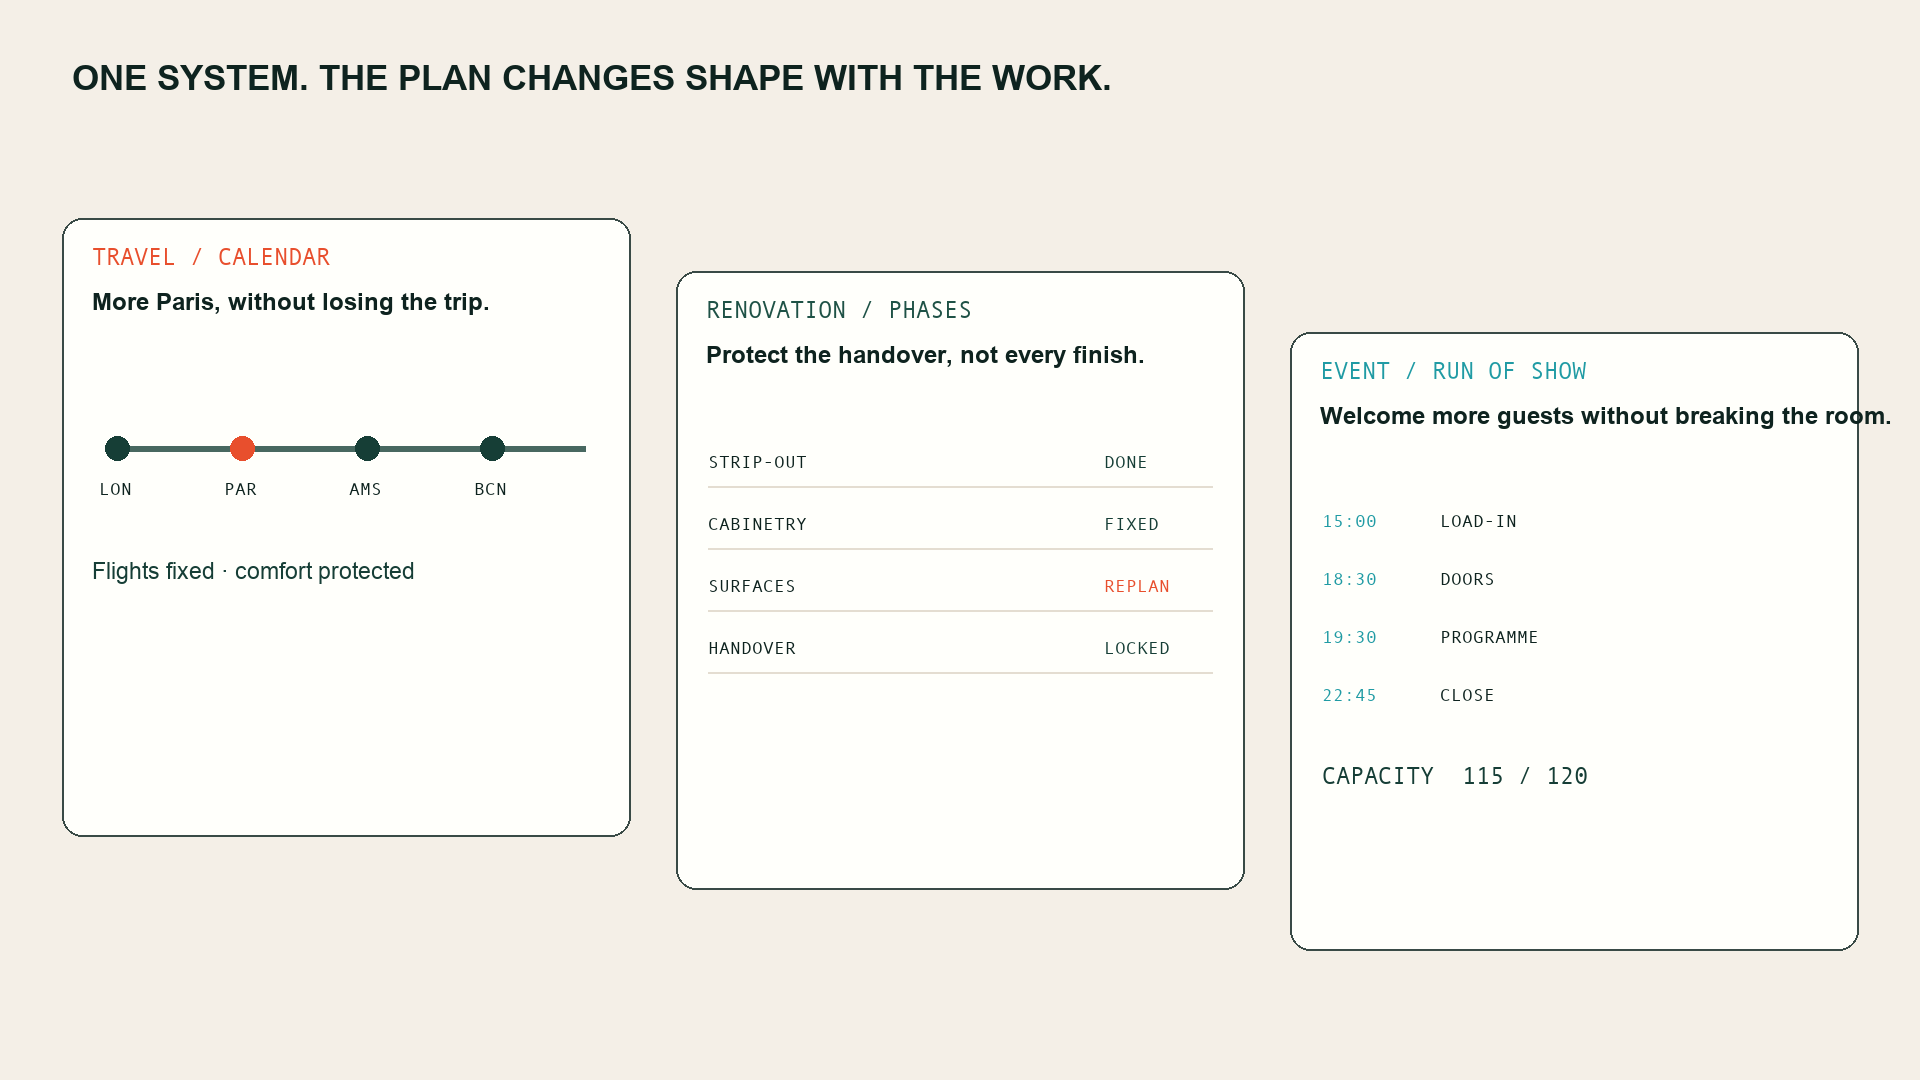
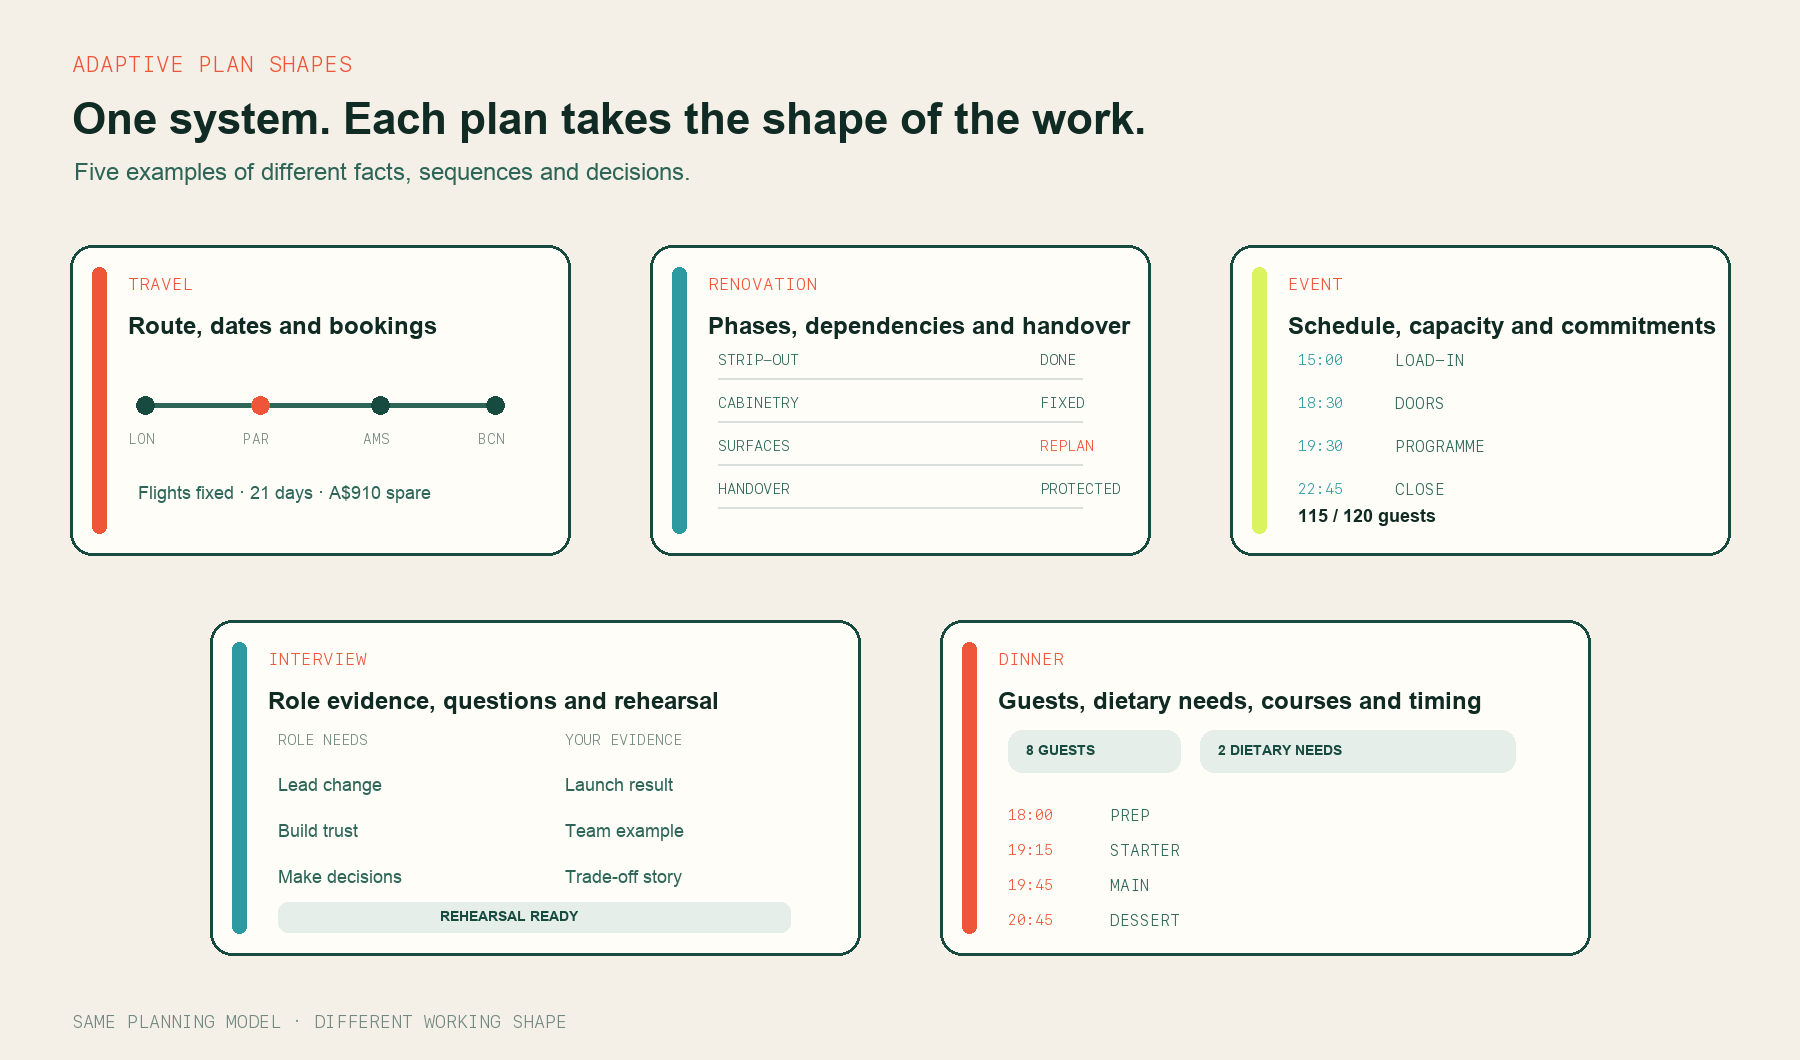
docs: prove Finite adapts to the work

diff --git a/docs/diagrams/render_diagrams.py b/docs/diagrams/render_diagrams.py
@@ -323,10 +323,73 @@ def restaurant_model() -> None:
     image.save(OUT / "diagram-restaurant-model.png", optimize=True)
 
 
+def adaptive_plan_shapes() -> None:
+    image = Image.new("RGB", (1800, 1060), PAPER)
+    draw = ImageDraw.Draw(image)
+    draw.text((72, 50), "ADAPTIVE PLAN SHAPES", font=font(22, mono=True), fill=CORAL)
+    draw.text((72, 94), "One system. Each plan takes the shape of the work.", font=font(44, bold=True), fill=INK)
+    draw.text((74, 158), "Five examples of different facts, sequences and decisions.", font=font(24), fill=GREEN_2)
+
+    def card(x0: int, y0: int, x1: int, y1: int, label: str, title: str, accent: str) -> None:
+        draw.rounded_rectangle((x0, y0, x1, y1), radius=22, fill=WHITE, outline=GREEN, width=3)
+        draw.rounded_rectangle((x0 + 22, y0 + 22, x0 + 36, y1 - 22), radius=7, fill=accent)
+        draw.text((x0 + 58, y0 + 28), label, font=font(17, mono=True), fill=CORAL)
+        draw.text((x0 + 58, y0 + 67), title, font=font(24, bold=True), fill=INK)
+
+    card(70, 245, 570, 555, "TRAVEL", "Route, dates and bookings", CORAL)
+    draw.line((138, 405, 500, 405), fill=GREEN_2, width=5)
+    for x, place, colour in [(145, "LON", GREEN), (260, "PAR", CORAL), (380, "AMS", GREEN), (495, "BCN", GREEN)]:
+        draw.ellipse((x - 9, 396, x + 9, 414), fill=colour)
+        draw.text((x - 17, 430), place, font=font(14, mono=True), fill=MUTED)
+    draw.text((138, 482), "Flights fixed · 21 days · A$910 spare", font=font(18), fill=GREEN_2)
+
+    card(650, 245, 1150, 555, "RENOVATION", "Phases, dependencies and handover", TEAL)
+    phase_rows = [("STRIP-OUT", "DONE", GREEN_2), ("CABINETRY", "FIXED", GREEN_2), ("SURFACES", "REPLAN", CORAL), ("HANDOVER", "PROTECTED", GREEN_2)]
+    for index, (phase, state, colour) in enumerate(phase_rows):
+        y = 350 + index * 43
+        draw.text((718, y), phase, font=font(15, mono=True), fill=GREEN_2)
+        draw.text((1040, y), state, font=font(15, mono=True), fill=colour)
+        draw.line((718, y + 28, 1082, y + 28), fill="#d8dfda", width=2)
+
+    card(1230, 245, 1730, 555, "EVENT", "Schedule, capacity and commitments", MINT)
+    event_rows = [("15:00", "LOAD-IN"), ("18:30", "DOORS"), ("19:30", "PROGRAMME"), ("22:45", "CLOSE")]
+    for index, (time, activity) in enumerate(event_rows):
+        y = 350 + index * 43
+        draw.text((1298, y), time, font=font(15, mono=True), fill=TEAL)
+        draw.text((1395, y), activity, font=font(16, mono=True), fill=GREEN_2)
+    draw.text((1298, 505), "115 / 120 guests", font=font(18, bold=True), fill=INK)
+
+    card(210, 620, 860, 955, "INTERVIEW", "Role evidence, questions and rehearsal", TEAL)
+    draw.text((278, 730), "ROLE NEEDS", font=font(15, mono=True), fill=MUTED)
+    draw.text((565, 730), "YOUR EVIDENCE", font=font(15, mono=True), fill=MUTED)
+    interview_rows = [("Lead change", "Launch result"), ("Build trust", "Team example"), ("Make decisions", "Trade-off story")]
+    for index, (need, evidence) in enumerate(interview_rows):
+        y = 774 + index * 46
+        draw.text((278, y), need, font=font(18), fill=GREEN_2)
+        draw.text((565, y), evidence, font=font(18), fill=GREEN_2)
+    draw.rounded_rectangle((278, 902, 790, 932), radius=10, fill="#e6eee9")
+    draw.text((440, 908), "REHEARSAL READY", font=font(14, bold=True), fill=GREEN)
+
+    card(940, 620, 1590, 955, "DINNER", "Guests, dietary needs, courses and timing", CORAL)
+    dinner_pills = [(1008, 730, 1180, "8 GUESTS"), (1200, 730, 1515, "2 DIETARY NEEDS")]
+    for x0, y0, x1, label in dinner_pills:
+        draw.rounded_rectangle((x0, y0, x1, y0 + 42), radius=14, fill="#e6eee9")
+        draw.text((x0 + 18, y0 + 12), label, font=font(14, bold=True), fill=GREEN)
+    dinner_rows = [("18:00", "PREP"), ("19:15", "STARTER"), ("19:45", "MAIN"), ("20:45", "DESSERT")]
+    for index, (time, course) in enumerate(dinner_rows):
+        y = 805 + index * 35
+        draw.text((1008, y), time, font=font(15, mono=True), fill=CORAL)
+        draw.text((1110, y), course, font=font(16, mono=True), fill=GREEN_2)
+
+    draw.text((72, 1010), "SAME PLANNING MODEL · DIFFERENT WORKING SHAPE", font=font(18, mono=True), fill=MUTED)
+    image.save(OUT / "02-adaptive-system.png", optimize=True)
+
+
 if __name__ == "__main__":
     dark_mode_wordmark()
     github_hero()
     restaurant_model()
+    adaptive_plan_shapes()
     decision_transaction()
     system_architecture()
     webmcp_surface()

diff --git a/README.md b/README.md
@@ -67,18 +67,19 @@ become one workflow.
 
 ![The Finite restaurant model showing the person and Codex planning together while WebMCP connects Codex to the live plan](./docs/media/diagram-restaurant-model.png)
 
-## One system, many kinds of plan
+## One system, shaped around the work
 
-Finite uses the same planning engine across many kinds of work. A trip needs
-dates, places and transport. A renovation needs phases, dependencies and
-handover. An event needs a run of show, capacity
-and commitments. Interview preparation and dinner planning need different
-information again.
+Finite changes shape around the work. A trip becomes a route, calendar,
+bookings and budget. A renovation becomes phases,
+dependencies, costs and handover. An event becomes a run of show, capacity and
+commitments. An interview becomes evidence, questions and rehearsal. A dinner
+becomes guests, dietary needs, courses and timing.
 
 ![Finite adapting into travel, renovation, event, interview and dinner plan shapes](./docs/media/02-adaptive-system.png)
 
-These are not renamed copies of one dashboard. Each plan gets the timeline,
-measures, records and choices that fit the work.
+Underneath, Finite uses one planning model for connected facts, constraints,
+choices and revisions. On screen, each plan gets the structure and language
+the work actually needs.
 
 ## Why this needs WebMCP
 
